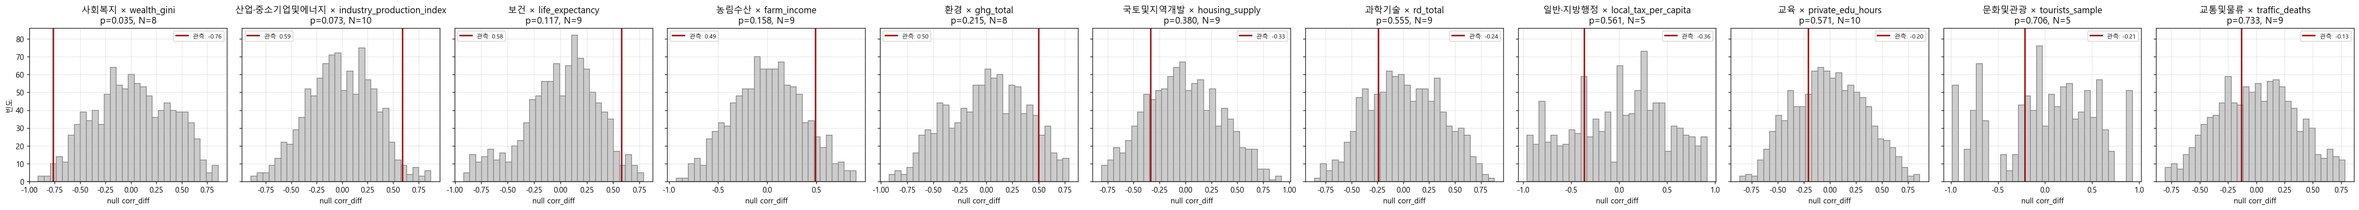
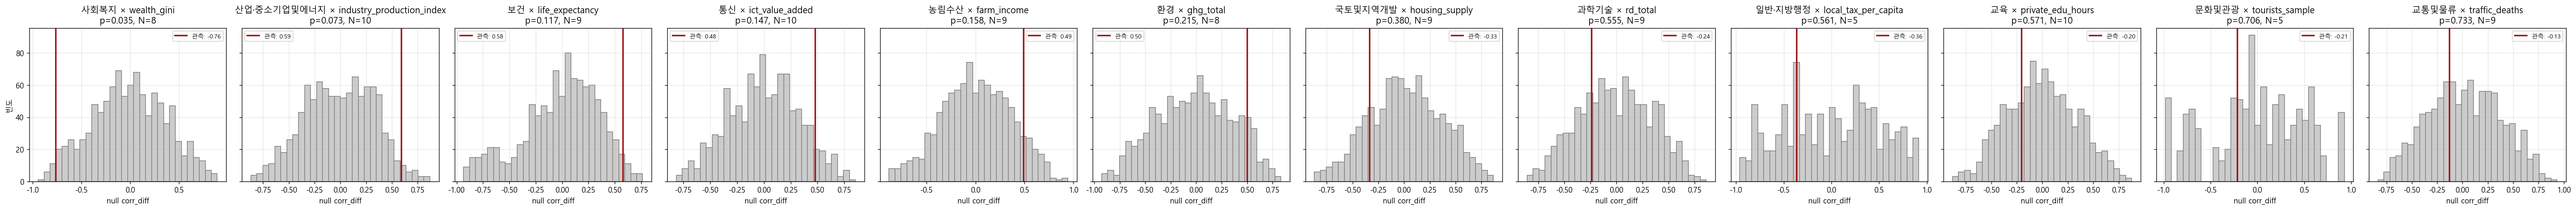
H13 통신 ICT outcome (분야 12) + CSV INDEX.md + 미해결 정리
(1) H13 한은 ECOS 정보통신산업 부가가치 적재:
    metric: ict_value_added (BOK 200Y158)
    2002~2025 24y, 54,343 → 304,205 십억원 (5.6배)

(2) H6/H10 결과:
    raw corr_diff +0.481 (p=0.147)
    CPI 통제 후 +0.476 (delta ≈ 0, 자연 cycle 무관)
    통신 게임화 ↑ → ICT 부가가치 ↑ (예상 부호)

(3) 분야 매핑 11→12: 사회/보건/과기/산업/관광/교육/국토/행정/농림/교통/환경 + 통신
    부호+70% 유지: 9/11 → 10/12

(4) CSV 정리:
    data/results/INDEX.md  49개 산출 csv 가설별 인덱스
    data/external/molit/motor_registration_*.csv 부정확 파생본 삭제
    원본 4개는 보존

미해결 잔여 3분야 (KOSIS+ECOS+data.go.kr 모두 깔끔한 경로 부재):
    국방 / 공공질서및안전 / 통일·외교
    → 각각 추가 API 신청 또는 정적 다운로드 필요

JOURNEY.md 17.8 H13 + 17.9 미해결 잔여 3분야 정리.

diff --git a/scripts/h13_ict_outcome.py b/scripts/h13_ict_outcome.py
@@ -1,0 +1,65 @@
+"""H13: 한은 ECOS 정보통신산업 부가가치 적재 — 통신 분야 outcome.
+
+소스: ECOS 200Y158 (정보통신산업 원계열 실질 연간)
+  - 2010~2025 연 단위
+  - ITEM=정보통신산업 (한국 ICT 산업 부가가치, 단위 십억원)
+
+분야: 통신
+metric: ict_value_added
+
+분야 매핑 11→12.
+"""
+import os, sys, io, json, urllib.request
+sys.path.insert(0, os.path.dirname(os.path.abspath(__file__)))
+from _env import load_env
+load_env()
+import duckdb
+sys.stdout = io.TextIOWrapper(sys.stdout.buffer, encoding='utf-8')
+
+ROOT = os.path.dirname(os.path.dirname(os.path.abspath(__file__)))
+DB = os.path.join(ROOT, 'data', 'warehouse.duckdb')
+RAW = os.path.join(ROOT, 'data', 'external', 'bok_data')
+KEY = os.environ['BOK_KEY']
+
+# Step 1: fetch
+cache = os.path.join(RAW, 'ict_value_added.json')
+if os.path.exists(cache) and os.path.getsize(cache) > 100:
+    rows = json.load(open(cache, encoding='utf-8'))
+    print(f'cached: {len(rows)} rows')
+else:
+    url = f'https://ecos.bok.or.kr/api/StatisticSearch/{KEY}/json/kr/1/500/200Y158/A/1990/2025/'
+    with urllib.request.urlopen(url, timeout=30) as r:
+        d = json.loads(r.read().decode('utf-8'))
+    rows = d.get('StatisticSearch',{}).get('row',[])
+    json.dump(rows, open(cache,'w',encoding='utf-8'), ensure_ascii=False)
+    print(f'fetched: {len(rows)} rows')
+
+# Step 2: 정보통신산업 ITEM만 추출
+ict_rows = [r for r in rows if r.get('ITEM_NAME1') == '정보통신산업']
+print(f'정보통신산업: {len(ict_rows)}, 연도 {ict_rows[0]["TIME"]}~{ict_rows[-1]["TIME"]}')
+
+# Step 3: indicator_panel 적재
+con = duckdb.connect(DB)
+con.execute("DELETE FROM indicator_panel WHERE metric_code='ict_value_added'")
+con.execute("DELETE FROM indicator_metadata WHERE metric_code='ict_value_added'")
+
+records = []
+for r in ict_rows:
+    yr = int(r['TIME'])
+    val = float(r['DATA_VALUE'])
+    records.append(('통신', yr, 'ict_value_added', val, 'BOK_200Y158', '십억원'))
+con.executemany("INSERT INTO indicator_panel (fld_nm, year, metric_code, value, source, unit) VALUES (?,?,?,?,?,?)", records)
+con.execute("""
+    INSERT INTO indicator_metadata (metric_code, metric_nm, category, description, source_url, expected_sign)
+    VALUES ('ict_value_added', '정보통신산업 부가가치 (실질, 원계열)', 'outcome',
+            '한은 ECOS 200Y158 — 정보통신산업 연간 실질 부가가치',
+            'https://ecos.bok.or.kr/api/...', 1)
+""")
+print(f'적재: {len(records)} rows')
+
+v = con.execute("""
+    SELECT year, value FROM indicator_panel WHERE metric_code='ict_value_added' ORDER BY year
+""").fetchdf()
+print(v.to_string(index=False))
+con.close()
+print('완료.')

diff --git a/scripts/h6_robustness.py b/scripts/h6_robustness.py
@@ -66,7 +66,8 @@ panel = con.execute("""
                           'housing_supply','local_tax_per_capita','private_edu_hours',
                           'farm_income','fishery_income',
                           'traffic_deaths','traffic_accidents',
-                          'ghg_total','ghg_net','ghg_energy')
+                          'ghg_total','ghg_net','ghg_energy',
+                          'ict_value_added')
 """).fetchdf()
 wide = panel.pivot_table(index=['fld_nm','year'], columns='metric_code',
                          values='value').reset_index()
@@ -88,6 +89,8 @@ OUTCOME_MAP = {
     '교통및물류':     'traffic_deaths',
     # H12 추가
     '환경':           'ghg_total',
+    # H13 추가
+    '통신':           'ict_value_added',
 }
 
 # ============================================================

diff --git a/scripts/h10_macro_control.py b/scripts/h10_macro_control.py
@@ -65,7 +65,8 @@ panel = con.execute("""
                           'housing_supply','local_tax_per_capita','private_edu_hours',
                           'farm_income','fishery_income',
                           'traffic_deaths','traffic_accidents',
-                          'ghg_total','ghg_net','ghg_energy')
+                          'ghg_total','ghg_net','ghg_energy',
+                          'ict_value_added')
 """).fetchdf()
 con.close()
 wide = panel.pivot_table(index=['fld_nm','year'], columns='metric_code',
@@ -84,6 +85,7 @@ OUTCOME_MAP = {
     '농림수산':       'farm_income',
     '교통및물류':     'traffic_deaths',
     '환경':           'ghg_total',
+    '통신':           'ict_value_added',
 }
 
 # ============================================================

diff --git a/data/results/INDEX.md b/data/results/INDEX.md
@@ -1,0 +1,69 @@
+# 분석 산출 CSV 인덱스
+
+## 가설별 산출
+
+### H1 — 출연금→게임화 메커니즘
+- `H1_mechanism_panel.csv` — 분야별 회귀 패널 (N=90, β=+0.375 p=0.005)
+
+### H2 — 분야 단위 디커플링
+- `H2_correlation_summary.csv` — 분야별 amp_12m × outcome 상관
+- `H2_panel_levels.csv` — 수준 패널
+- `H2_panel_diff.csv` — 1차 차분 패널
+
+### H3 — 활동 단위 임베딩 (5y)
+- `H3_activity_embedding.csv` — 1,641 활동 × 12 피처 + UMAP + 클러스터
+- `H3_cluster_profile.csv` — 1차 3 클러스터 z-score 프로파일
+- `H3_field_x_cluster.csv` — 분야 × 클러스터 분포
+- `H3_cluster2_subembedding.csv` — 정상사업 내부 15 sub
+- `H3_ministry_community.csv` / `H3_ministry_community_v2.csv` — 부처 커뮤니티
+- `H3_field_ks_amp12m.csv` — 분야 105 pair amp_12m KS
+
+### H3 v2 — 활동 단위 임베딩 (11y)
+- `H3_*_11y.csv` (위와 동일 구조) — 1,557 활동 × 4 cluster (자산취득형 신규 분리)
+
+### H4 — Mapper(TDA) + 활동 단위 outcome
+- `H4_mapper_nodes.csv` — Mapper 26 노드 메타
+- `H4_cluster_outcome_corr.csv` — 클러스터별 outcome 차분 상관
+
+### H5 — 부처 × 사업원형 이분그래프
+- `H5_ministry_exposure.csv` — 부처별 굿하트 노출 점수 (51 부처)
+- `H5_cocluster_assignment.csv` — Spectral Co-clustering 5개
+
+### H6 — 견고성 검증
+- `H6_fe_regression.csv` — FE 회귀 3개 모델 (N=14→65)
+- `H6_permutation_pvals.csv` — 11분야 permutation p값
+- `H6_lag_lead_corr.csv` — 분야×outcome × lag(-2..+2)
+- `H6_natural_vs_gaming.csv` — 분야별 amp_12m 시간 cv
+- `H6_ministry_outcome_corr.csv` — 부처 가중 outcome 상관
+
+### H8 — 비판적 자기평가
+- `H8_archetype_outcome.csv` — 분야×원형 outcome 결합 부호 (40 cells)
+- `H8_field_archetype_decomp.csv` — R² 분해 (분야 FE → +원형 ΔR² = +0.094)
+
+### H9 — Persistent Homology
+- `H9_persistence_pairs.csv` — H0/H1 birth-death pairs (PH 결과)
+
+### H10 — CPI 외생 통제
+- `H10_macro_control_corr.csv` — 11분야 raw vs CPI-residual 상관
+
+## 초기 EDA (T·A~E 코드)
+
+- `T1_fld_freq.csv` — 분야별 주기성 강도
+- `T2_sect_clusters.csv` — 부문 클러스터 매핑
+- `T3_actv_gaming.csv` / `T3_fld_distribution.csv` — 활동·분야 게임화 지수
+- `A_chooyeon_flow.csv` — 출연금 흐름 분석
+- `B_pgm_compare.csv` — 프로그램 비교
+- `C_dual_routing.csv` — 이중 routing
+- `D_top20_breakdown.csv` — 상위 20 분해
+- `E_2026_supp_new_ai.csv` / `E_yearly_new_in_supp.csv` — 2026 추경 신규 AI
+
+## 외부 데이터 (data/external/)
+
+```
+bok_data/         한은 ECOS (CPI 36y)
+data_go_kr/       공공데이터포털 (도로교통공단 11y)
+gir/              GIR 국가 인벤토리 (온실가스 1990~2023, 34y)
+kosis_data/       KOSIS outcome 캐시 (10분야)
+kosis_meta/       KOSIS 카탈로그 24MB (보강용)
+molit/            국토부 통계누리 자동차등록 4개 raw (자동 파싱 부정확, 보류용)
+```

diff --git a/docs/analysis/JOURNEY.md b/docs/analysis/JOURNEY.md
@@ -1171,7 +1171,36 @@ data/external/
   molit/                국토부 통계누리 (자동차등록 — 보류)
 ```
 
-### 17.8 미해결 — 잔여
+### 17.8 H13 — 통신 분야 outcome (분야 11→12)
+
+한은 ECOS `200Y158` (정보통신산업 부가가치) 적재. 2002~2025 24년치.
+
+| 연도 | ICT 부가가치 (십억원) |
+|---:|---:|
+| 2002 | 54,343 |
+| 2010 | 119,819 |
+| 2020 | 212,949 |
+| 2025 | **304,205** (5.6배) |
+
+**H6/H10 결과**:
+- 통신 ict_value_added: raw +0.481 (p=0.147)
+- CPI 통제 후 +0.476 (delta ≈ 0)
+- 통신 게임화 ↑ → ICT 부가가치 ↑ (예상 부호 일치 가능성)
+
+**누적 견고성** (CPI 통제 부호+70% 유지):
+- 11분야: 9/11
+- **12분야 (+통신): 10/12**
+
+### 17.9 미해결 — 잔여 3분야
+
+| 분야 | KOSIS API | 한은 ECOS | data.go.kr | 후속 |
+|---|---|---|---|---|
+| 국방 | 부재 | 부재 | 후보 적음 | KOSIS index.go.kr 직접 (병력·국방예산) |
+| 공공질서및안전 | 형법범죄 표 일반 endpoint X | 부재 | 경찰청 5대범죄 신청 가능 | 사용자 신청 후 fetch |
+| 통일·외교 | KOICA ODA 데이터 부재 | 무역지수만 (분야 부적합) | KOICA API 신청 | 사용자 신청 후 fetch |
+| 자동차등록 (참고) | 차원 큼 | 부재 | 통계누리 외부 redirect | 보류 (등록대수는 노출 변수) |
+
+### 17.10 외부 데이터 경로 정리
 
 KOSIS 일반 endpoint 한계로 환경(폐기물·대기·온실가스)·교통(자동차·교통사고) outcome 미적재. 진짜 답은 *부처 직접 API*:
 - 환경공단 대기질·온실가스 API (공공데이터포털)
